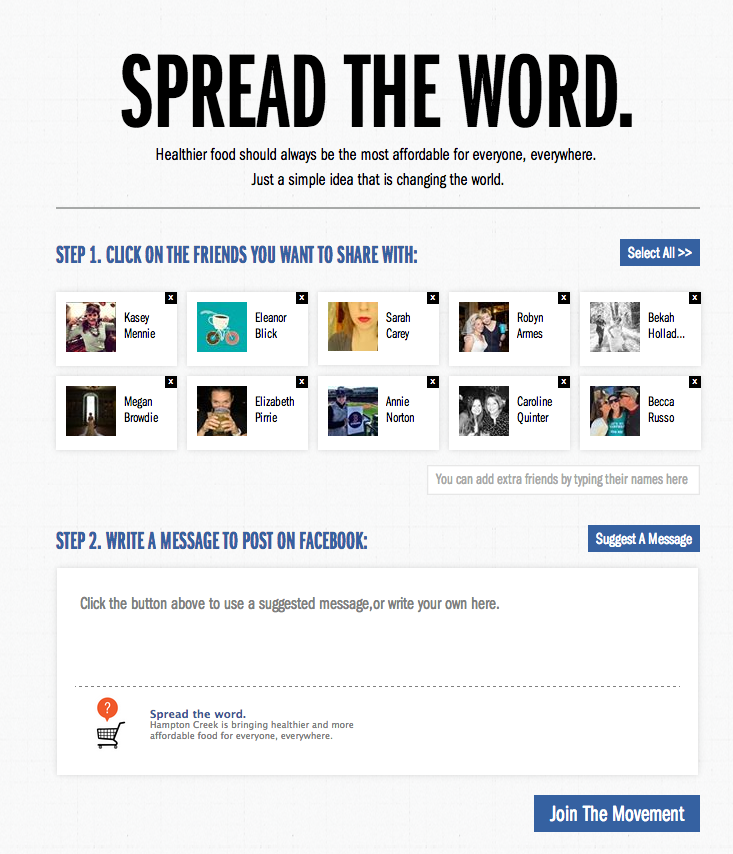
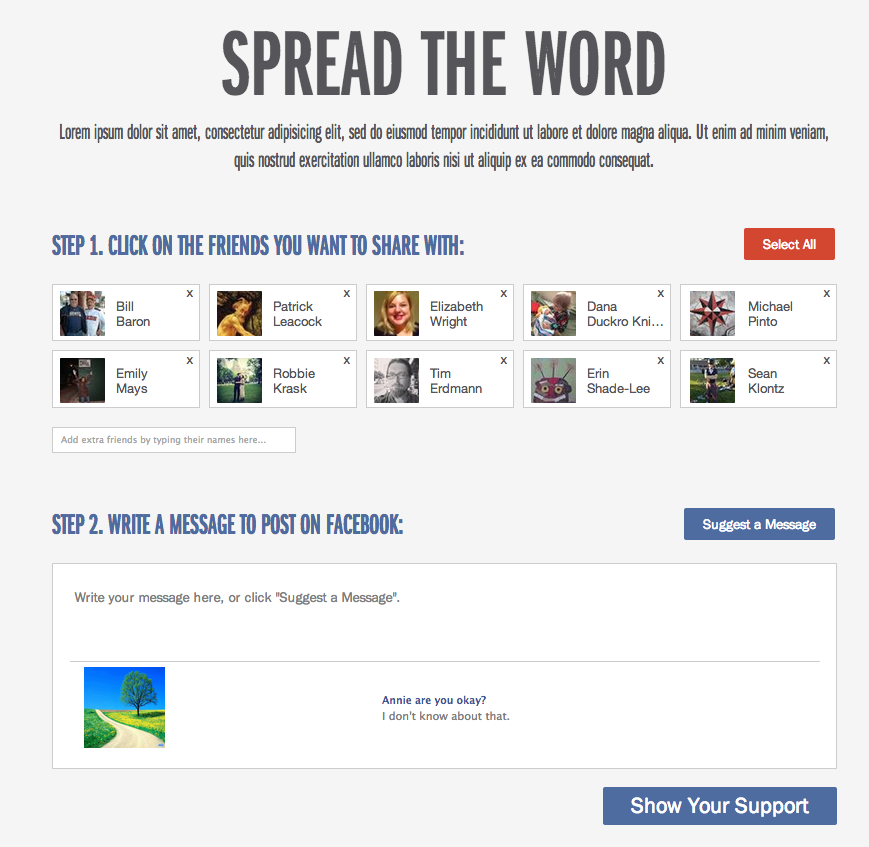
saving work remotely, building out image companion

diff --git a/targetadmin/static/js/views/campaignWizard/util/imageCompanion.js b/targetadmin/static/js/views/campaignWizard/util/imageCompanion.js
@@ -1,0 +1,261 @@
+define( [ 'jquery', 'vendor/underscore', 'extendBackbone' ], function( $, _, Backbone ) {
+     
+        return Backbone.View.extend( {
+
+            companionModel: new Backbone.Model(),
+
+            events: {
+                'focus input,textarea': 'fieldFocused',
+                'blur input,textarea': 'fieldBlurred'
+            },
+
+            postRender: function() {
+
+                this.templateData.popoverEl.popover( {
+                    animation: false,
+                    trigger: 'manual',
+                    content: this.getPopoverContent.bind( this ),
+                    placement: this.getPopoverPlacement.bind( this )
+                } );
+                
+                return this; 
+            }
+
+
+            return this;
+        },
+
+        afterRender: function() {
+            if( this.templateData.image.height() ) {
+                this.imageLoaded();
+            } else {
+                this.templateData.image.on( 'load', this.imageLoaded.bind( this ) );
+            }
+            
+            this.model.set('hasRendered', true );
+        },
+
+        fieldFocused: function(e) {
+            this.companionModel.set( 'currentField', $(e.currentTarget).attr('name') );
+            this.scrollToCurrentField();
+
+            return this;
+        },
+
+        fieldBlurred: function() {
+            this.templateData.popoverEl.popover('hide');
+            this.companionModel.set( 'currentField', null );
+        },
+
+        setImageContainerBBox: function() {
+            var offset = this.templateData.imageContainer.offset();
+
+            this.model.set( {
+                imageContainerTop: offset.top - parseFloat( this.templateData.imageContainer.css('top') ),
+                imageContainerLeft: offset.left
+            } );
+        },
+
+        scrollToCurrentField: function() {
+
+            var fieldElTop = this.templateData[ this.model.get('currentField') ].offset().top,
+                scrollTop = ( fieldElTop - ( this.util.windowHeight / 2 ) ),
+                maxDifference = this.model.get('inputContainerHeight') - this.model.get('imageHeight'),
+                difference = fieldElTop - ( this.model.get('imageContainerTop') + ( this.model.get('imageHeight') / 2 ) );
+
+            if( difference < 0 ) { difference = 0; }
+            else if( difference > maxDifference ) { difference = maxDifference; }
+
+            this.templateData.imageContainer.animate( { 'top': difference } );
+        
+            if( ( this.util.scrollTop >= this.util.maxScroll && scrollTop >= this.util.maxScroll ) ||
+                ( this.util.scrollTop === scrollTop ) || 
+                ( this.util.scrollTop === 0 && scrollTop <= 0 ) ) {
+
+                this.showPopover();
+
+            } else {
+
+                $('body,html').animate(
+                    { 'scrollTop' : scrollTop },
+                    { 'complete': this.showPopover.bind(this) }
+                );
+            }
+
+            return this;
+        },
+
+        showPopover: function() {
+
+            if( this.model.has('currentField') ) {
+                this[
+                    'show' +
+                    this.fields[ this.model.get('currentField') ].type.capitalize() +
+                    'Popover' ]();
+            }
+
+            return this;
+        },
+
+        showImagePopover: function() {
+
+            this.templateData.inputPopover.popover('hide');
+
+            this.updateImagePopover().popover('show');
+            
+            return this;
+        },
+
+        showInputPopover: function() {
+
+            this.templateData.imagePopover.popover('hide');
+
+            this.updateInputPopover().popover('show');
+            
+            return this;
+        },
+
+        updatePopoverPosition: function() {
+            return this[
+                'update' +
+                this.fields[ this.model.get('currentField') ].type.capitalize() +
+                'Popover' ]();
+        },
+
+        updateImagePopover: function() {
+            var currentField = this.fields[ this.model.get('currentField') ];
+
+            return this.templateData.imagePopover.css( {
+                top: currentField.coords.y * this.model.get('multiplierY'),
+                left: currentField.coords.x * this.model.get('multiplierX') } );
+        },
+
+        updateInputPopover: function() {
+            var inputEl = this.templateData[ this.model.get('currentField') ],
+                inputOffset = inputEl.position();
+
+            return this.templateData.inputPopover.css( {
+                top: inputOffset.top + inputEl.outerHeight( true ) + 5,
+                left: inputOffset.left + ( inputEl.outerWidth( true ) / 2 ) } );
+        },
+
+        windowResized: function() {
+
+            this.setImageDimensions()
+                .setMultiplier()
+                .setBoundingBoxData();
+
+            if( this.model.has('currentField') ) {
+                this.hidePopover()
+                    .showPopover();
+            }
+        },
+
+        setMultiplier: function() {
+            this.model.set( {
+                multiplierX: this.model.get('imageWidth') / this.model.get('originalImageWidth'),
+                multiplierY: this.model.get('imageHeight') / this.model.get('originalImageHeight')
+            } );
+
+            return this;
+        },
+
+        setImageDimensions: function() {
+            this.model.set( {
+                imageWidth: this.templateData.image.width(),
+                imageHeight: this.templateData.image.height()
+            } );
+
+            return this;
+        },
+
+        imageLoaded: function() {
+            this.model.set( {
+                originalImageHeight: this.templateData.image.height(),
+                originalImageWidth: this.templateData.image.width()
+            } );
+
+            this.templateData.image.addClass( 'companion-image' );
+
+            this.util.computeSizes();
+
+            this.setImageDimensions()
+                .setMultiplier()
+                .setBoundingBoxData();
+
+            this.beginFieldCycle();
+
+            return this;
+        },
+
+        beginFieldCycle: function() {
+
+            this.model.set( 'isCycling', true );
+            
+            _.each( this.inputEls, function( $el ) {
+                $el.addClass('white-text');
+            } );
+
+            this.cycleFields();
+
+            this.clickPtr = this.clickDuringCycle.bind(this);
+            this.keydownPtr = this.keydownDuringCycle.bind( this );
+            this.windowBlurPtr = this.windowBlurDuringCycle.bind( this );
+
+            this.$el.on( 'keydown', 'input,textarea', this.keydownPtr )
+                    .on( 'click', this.clickPtr );
+
+            this.util.window.on( 'blur', this.windowBlurPtr );
+        },
+
+        windowBlurDuringCycle: function() {
+            this.stopCycling();
+        },
+
+        stopCycling: function() {
+            clearTimeout( this.cycleTimer );
+
+            this.model.set( 'isCycling', false );
+            
+            _.each( this.inputEls, function( $el ) {
+                $el.removeClass('white-text');
+            } );
+            
+            this.$el.off( 'keydown', 'input,textarea', this.keydownPtr )
+                    .off( 'click', this.clickPtr );
+
+            this.util.window.off( 'blur', this.windowBlurPtr );
+
+            _.each( [ 'clickPtr', 'keydownPtr', 'windowBlurPtr' ], function( attr ) { this.attr = undefined; }, this );
+        },
+
+        clickDuringCycle: function() { this.stopCycling(); },
+
+        keydownDuringCycle: function() { this.stopCycling(); },
+
+        cycleFields: function() {
+            this.inputEls[ this.model.get('fieldCycleIndex') ].focus();
+            this.model.set('fieldCycleIndex', this.model.get('fieldCycleIndex') + 1 );
+            if( this.model.get('fieldCycleIndex') == this.inputEls.length ) { this.model.set('fieldCycleIndex', 0); }
+            this.cycleTimer = _.delay( this.cycleFields.bind(this), 5000 );
+        },
+
+        setBoundingBoxData: function() {
+            var inputContainerOffset = this.templateData.inputContainer.offset();
+
+            this.setImageContainerBBox();
+
+            this.model.set( {
+                inputContainerTop: inputContainerOffset.top,
+                inputContainerLeft: inputContainerOffset.left,
+                inputContainerHeight: this.templateData.inputContainer.outerHeight( true ),
+            } );
+
+            return this;
+        },
+
+        getPopoverText: function() { return this.fields[ this.model.get('currentField') ].text; },
+        getPopoverPlacement: function() { return this.fields[ this.model.get('currentField') ].placement; }
+
+
+    } );

diff --git a/targetadmin/static/templates/campaignWizard/faces.js b/targetadmin/static/templates/campaignWizard/faces.js
@@ -10,7 +10,11 @@ helpers = this.merge(helpers, Handlebars.helpers); data = data || {};
   if (helper = helpers.name) { stack1 = helper.call(depth0, {hash:{},data:data}); }
   else { helper = (depth0 && depth0.name); stack1 = typeof helper === functionType ? helper.call(depth0, {hash:{},data:data}) : helper; }
   buffer += escapeExpression(stack1)
-    + "</span></h1><hr class=\"heading-separator\"><div class=\"row subheader\"><div class=\"col-sm-8\"><span>The Friend Suggestion Page is what your supporters will see after they authorize the Targeted Sharing application to access their Facebook information. They'll use this page to choose which friends to share with. Configure your Friend Suggestion Page by filling in the form below.</span></div></div><div class=\"row\"><div class=\"col-sm-6\"><div class=\"form-group\"><label class=\"input-label\">Headline</label><input class=\"form-control\" autocomplete=\"off\" data-js=\"formInput\" name=\"sharing_prompt\" type=\"text\" placeholder=\"YOUR HEADLINE HERE\"></div><div class=\"form-group\"><label class=\"input-label\">Subhead</label><span>(optional)</span><textarea class=\"form-control\" data-js=\"formInput\" name=\"sharing_sub_header\" rows=\"8\"></textarea></div><div class=\"form-group\"><label class=\"input-label\">Sharing Button</label><input class=\"form-control\" autocomplete=\"off\" data-js=\"formInput\" name=\"sharing_button\" type=\"text\" placeholder=\"Show Your Support\"></div><div class=\"form-group\"><label class=\"input-label\">Thanks URL</label><input class=\"form-control\" autocomplete=\"off\" data-js=\"formInput\" name=\"thanks_url\" type=\"text\" placeholder=\"your.org/thanks.html\"></div><div class=\"form-group\"><label class=\"input-label\">Error URL</label><input class=\"form-control\" autocomplete=\"off\" data-js=\"formInput\" name=\"error_url\" type=\"text\" placeholder=\"your.org/oops.html\"></div><div class=\"form-group\"><label class=\"input-label\">Hosting URL</label><span>(advanced)</span><input class=\"form-control\" autocomplete=\"off\" data-js=\"formInput\" name=\"faces_url\" type=\"text\"></div><div><button type=\"button\" class=\"btn pull-right\" data-js=\"nextStep\">Next Step</button><button type=\"button\" class=\"btn pull-right\" data-js=\"prevStep\">Go Back</button></div></div><div class=\"col-sm-6\"><div data-js=\"imageContainer\" class=\"image-container\"><img data-js=\"companionImage\"></div></div></div></div></section>";
+    + "</span></h1><hr class=\"heading-separator\"><div class=\"row subheader\"><div class=\"col-sm-8\"><span>The Friend Suggestion Page is what your supporters will see after they authorize the Targeted Sharing application to access their Facebook information. They'll use this page to choose which friends to share with. Configure your Friend Suggestion Page by filling in the form below.</span></div></div><div class=\"row\"><div class=\"col-sm-5\"><div class=\"form-group\"><label class=\"input-label\">Headline</label><input class=\"form-control\" autocomplete=\"off\" data-js=\"formInput\" name=\"sharing_prompt\" type=\"text\" placeholder=\"YOUR HEADLINE HERE\"></div><div class=\"form-group\"><label class=\"input-label\">Subhead</label><span>(optional)</span><textarea class=\"form-control\" data-js=\"formInput\" name=\"sharing_sub_header\" rows=\"8\"></textarea></div><div class=\"form-group\"><label class=\"input-label\">Sharing Button</label><input class=\"form-control\" autocomplete=\"off\" data-js=\"formInput\" name=\"sharing_button\" type=\"text\" placeholder=\"Show Your Support\"></div><div class=\"form-group\"><label class=\"input-label\">Thanks URL</label><input class=\"form-control\" autocomplete=\"off\" data-js=\"formInput\" name=\"thanks_url\" type=\"text\" placeholder=\"your.org/thanks.html\"></div><div class=\"form-group\"><label class=\"input-label\">Error URL</label><input class=\"form-control\" autocomplete=\"off\" data-js=\"formInput\" name=\"error_url\" type=\"text\" placeholder=\"your.org/oops.html\"></div><div class=\"form-group\"><label class=\"input-label\">Hosting URL</label><span>(advanced)</span><input class=\"form-control\" autocomplete=\"off\" data-js=\"formInput\" name=\"faces_url\" type=\"text\"></div><div><button type=\"button\" class=\"btn pull-right\" data-js=\"nextStep\">Next Step</button><button type=\"button\" class=\"btn pull-right\" data-js=\"prevStep\">Go Back</button></div></div><div class=\"col-sm-7\"><div data-js=\"imageContainer\" class=\"image-container\"><img data-js=\"companionImage\" src=\"";
+  if (helper = helpers.facesExampleURL) { stack1 = helper.call(depth0, {hash:{},data:data}); }
+  else { helper = (depth0 && depth0.facesExampleURL); stack1 = typeof helper === functionType ? helper.call(depth0, {hash:{},data:data}) : helper; }
+  buffer += escapeExpression(stack1)
+    + "\"></div></div><div data-js=\"popoverEl\"></div></div></div></section>";
   return buffer;
   })
 

diff --git a/targetadmin/static/js/views/campaignWizard/faces.js b/targetadmin/static/js/views/campaignWizard/faces.js
@@ -3,11 +3,10 @@ define(
       'jquery',
       'vendor/underscore',
       'extendBackbone',
-      'views/modal',
       'templates/campaignWizard/faces',
       'css!styles/campaignWizard/faces'
     ],
-    function( $, _, Backbone, modal, template, nameTemplate ) {
+    function( $, _, Backbone, template, nameTemplate ) {
 
         return Backbone.View.extend( {
             
@@ -26,7 +25,10 @@ define(
                 if( this.hide ) { this.$el.hide(); }
 
                 this.slurpHtml( {
-                    template: template( this ),
+                    template: template( {
+                        name: this.model.get('name'),
+                        facesExampleURL: this.facesExampleURL
+                    } ),
                     insertion: { $el: this.$el.appendTo(this.parentEl) } } );
 
                 return this;

diff --git a/targetadmin/templates/targetadmin/client_home.html b/targetadmin/templates/targetadmin/client_home.html
@@ -16,6 +16,7 @@
                 campaignSummaryURL: "{% url 'targetadmin:campaign-summary' client.pk 0 %}",
                 howItWorksURL: "{% url 'targetadmin:how-it-works' %}",
                 facebookPostImage: "{{ STATIC_URL }}img/fb-obj-example.png",
+                facesExampleURL: "{{ STATIC_URL }}img/faces-example.png",
                 clientId: {{client.pk}}
             } ).$el;
 

diff --git a/targetadmin/static/css/campaignWizard/faces.css b/targetadmin/static/css/campaignWizard/faces.css
@@ -1,3 +1,14 @@
 .HeadingFont {
   font-family: "franklin-gothic-ext-comp-urw", Helvetica, sans-serif;
 }
+.campaign-wizard-faces .input-label {
+  margin-right: 5px;
+  font-family: "franklin-gothic-ext-comp-urw", Helvetica, sans-serif;
+  color: #2c4c6c;
+  font-size: 24px;
+  text-transform: uppercase;
+  margin-bottom: 0px;
+}
+.campaign-wizard-faces .image-container img {
+  width: 100%;
+}

diff --git a/targetadmin/static/js/views/campaignWizard/skeleton.js b/targetadmin/static/js/views/campaignWizard/skeleton.js
@@ -62,6 +62,7 @@ define(
                     faces: new Faces( {
                         model: this.model,
                         parentEl: this.templateData.container,
+                        facesExampleURL: this.facesExampleURL,
                         hide: true,
                     } ).on('nextStep', function() { this.model.set('state','fbObj'); }, this )
                 }

diff --git a/targetadmin/static/js/views/clientCampaigns.js b/targetadmin/static/js/views/clientCampaigns.js
@@ -62,6 +62,7 @@ define(
                         new CampaignWizard( {
                             howItWorksURL: self.howItWorksURL,
                             facebookPostImage: self.facebookPostImage,
+                            facesExampleURL: self.facesExampleURL,
                             clientId: self.clientId
                         } );
                 } );

diff --git a/targetadmin/static/less/campaignWizard/faces.less b/targetadmin/static/less/campaignWizard/faces.less
@@ -2,4 +2,20 @@
 @import "../mixins.less";
 
 .campaign-wizard-faces {
+
+    .input-label {
+        margin-right: 5px;
+        .HeadingFont();
+        color: @darkBlue;
+        font-size: 24px;
+        text-transform: uppercase;
+        margin-bottom: 0px;
+    } 
+
+    .image-container {
+
+        img {
+            width: 100%;
+        }
+    }
 }

diff --git a/targetadmin/static/js/views/campaignWizard/filters.js b/targetadmin/static/js/views/campaignWizard/filters.js
@@ -44,7 +44,6 @@ define(
                 this.render();
 
                 this.addDraggableFunctionality();
-                
 
                 return this;
             },
